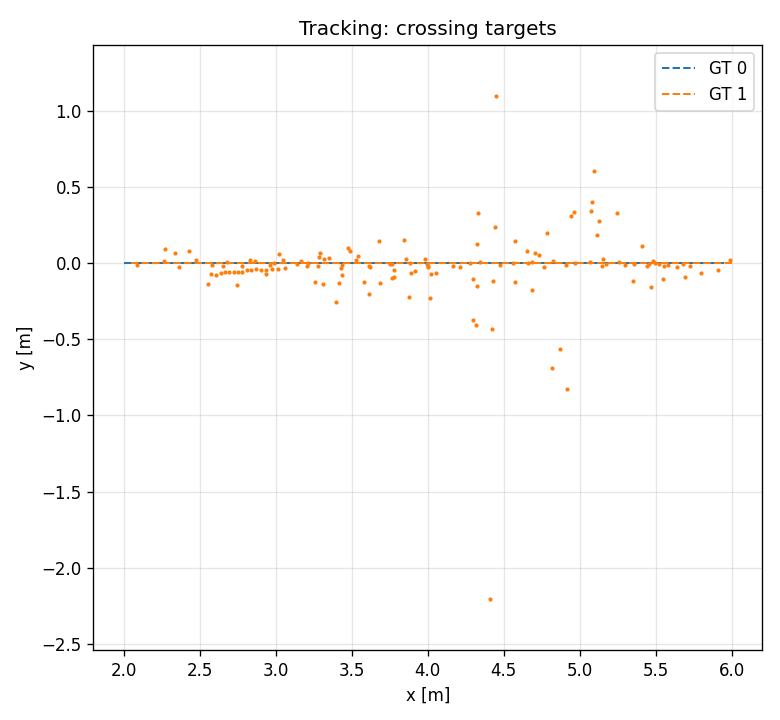
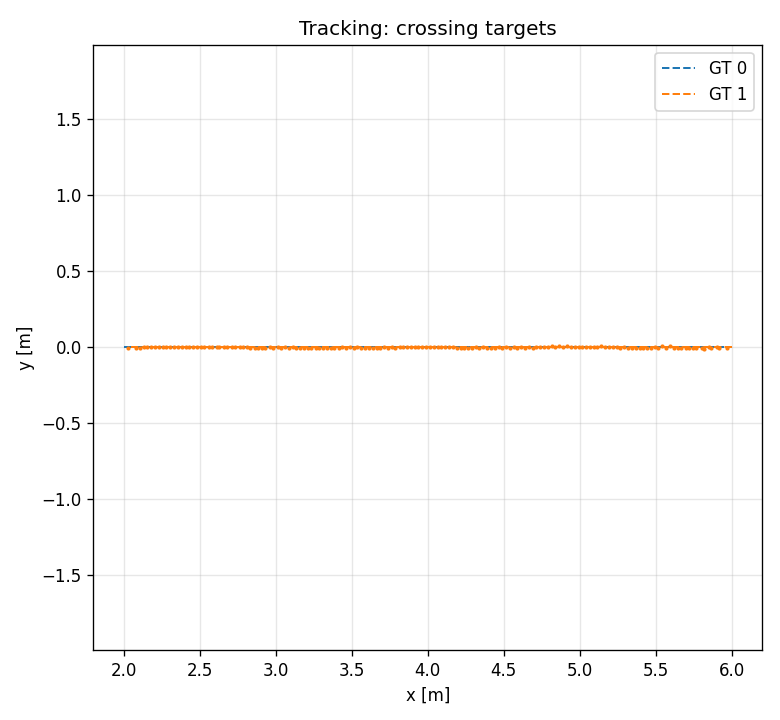
fix: add config 'dt' in CartesianTrackerConfig

diff --git a/processing/tracking_cartesian.py b/processing/tracking_cartesian.py
@@ -27,41 +27,48 @@ def wrap_to_pi(a: float) -> float:
     return np.pi - (np.pi - a) % (2.0 * np.pi)
 
 
-def ctrv_f(state: np.ndarray) -> np.ndarray:
-    """CTRV one-frame state transition (Δt = 1)."""
+def ctrv_f(state: np.ndarray, dt: float = 1.0) -> np.ndarray:
+    """CTRV state transition over a timestep `dt`.
+
+    With `dt = frame_period_s`, the state is in SI units (v in m/s, ω in rad/s),
+    consistent with the m/s Doppler measurement. `dt = 1.0` is the per-step form
+    used by the self-consistent unit tests.
+    """
     x, y, v, psi, w = state
+    wdt = w * dt
     if abs(w) < _EPS_OMEGA:
         # First-order-in-ω straight-line limit (keeps f consistent with ctrv_F's
         # analytic ω-column and avoids the v/ω singularity).
         s, c = np.sin(psi), np.cos(psi)
-        return np.array([x + v * c - 0.5 * v * w * s,
-                         y + v * s + 0.5 * v * w * c,
-                         v, wrap_to_pi(psi + w), w])
+        return np.array([x + v * c * dt - 0.5 * v * w * s * dt * dt,
+                         y + v * s * dt + 0.5 * v * w * c * dt * dt,
+                         v, wrap_to_pi(psi + wdt), w])
     s, c = np.sin(psi), np.cos(psi)
-    sw, cw = np.sin(psi + w), np.cos(psi + w)
+    sw, cw = np.sin(psi + wdt), np.cos(psi + wdt)
     return np.array([x + (v / w) * (sw - s),
                      y + (v / w) * (c - cw),
-                     v, wrap_to_pi(psi + w), w])
+                     v, wrap_to_pi(psi + wdt), w])
 
 
-def ctrv_F(state: np.ndarray) -> np.ndarray:
-    """Jacobian ∂f/∂x (5×5)."""
+def ctrv_F(state: np.ndarray, dt: float = 1.0) -> np.ndarray:
+    """Jacobian ∂f/∂x (5×5) for the `dt`-step CTRV transition."""
     x, y, v, psi, w = state
     s, c = np.sin(psi), np.cos(psi)
     F = np.eye(5)
     if abs(w) < _EPS_OMEGA:
-        F[0, 2], F[0, 3], F[0, 4] = c, -v * s, -0.5 * v * s
-        F[1, 2], F[1, 3], F[1, 4] = s, v * c, 0.5 * v * c
-        F[3, 4] = 1.0
+        F[0, 2], F[0, 3], F[0, 4] = c * dt, -v * s * dt, -0.5 * v * s * dt * dt
+        F[1, 2], F[1, 3], F[1, 4] = s * dt, v * c * dt, 0.5 * v * c * dt * dt
+        F[3, 4] = dt
         return F
-    sw, cw = np.sin(psi + w), np.cos(psi + w)
+    wdt = w * dt
+    sw, cw = np.sin(psi + wdt), np.cos(psi + wdt)
     F[0, 2] = (sw - s) / w
     F[0, 3] = (v / w) * (cw - c)
-    F[0, 4] = v * (cw * w - (sw - s)) / (w * w)
+    F[0, 4] = v * (dt * w * cw - (sw - s)) / (w * w)
     F[1, 2] = (c - cw) / w
     F[1, 3] = (v / w) * (sw - s)
-    F[1, 4] = v * (sw * w - (c - cw)) / (w * w)
-    F[3, 4] = 1.0
+    F[1, 4] = v * (dt * w * sw - (c - cw)) / (w * w)
+    F[3, 4] = dt
     return F
 
 
@@ -91,22 +98,23 @@ def cartesian_H(state: np.ndarray) -> np.ndarray:
     return H
 
 
-def ctrv_Q(state: np.ndarray, sigma_a: float, sigma_yaw: float) -> np.ndarray:
+def ctrv_Q(state: np.ndarray, sigma_a: float, sigma_yaw: float,
+           dt: float = 1.0) -> np.ndarray:
     """CTRV process noise from longitudinal-accel std σ_a and yaw-accel std
-    σ_yaw, mapped through the standard noise-input matrix G (Δt = 1)."""
+    σ_yaw, mapped through the standard noise-input matrix G over a step `dt`."""
     psi = state[3]
-    G = np.array([[0.5 * np.cos(psi), 0.0],
-                  [0.5 * np.sin(psi), 0.0],
-                  [1.0,               0.0],
-                  [0.0,               0.5],
-                  [0.0,               1.0]])
+    G = np.array([[0.5 * np.cos(psi) * dt * dt, 0.0],
+                  [0.5 * np.sin(psi) * dt * dt, 0.0],
+                  [dt,                          0.0],
+                  [0.0,                         0.5 * dt * dt],
+                  [0.0,                         dt]])
     D = np.diag([sigma_a * sigma_a, sigma_yaw * sigma_yaw])
     return G @ D @ G.T
 
 
-def ekf_predict(state, cov, Q):
-    F = ctrv_F(state)
-    return ctrv_f(state), F @ cov @ F.T + Q
+def ekf_predict(state, cov, Q, dt: float = 1.0):
+    F = ctrv_F(state, dt)
+    return ctrv_f(state, dt), F @ cov @ F.T + Q
 
 
 def _innovation(state, z):
@@ -189,8 +197,9 @@ class CartesianTracker:
 
     def step(self, objects: list) -> list:
         for t in self.tracks:
-            Q = ctrv_Q(t.state, self.cfg.sigma_a, self.cfg.sigma_yaw_accel)
-            t.state, t.cov = ekf_predict(t.state, t.cov, Q)
+            Q = ctrv_Q(t.state, self.cfg.sigma_a, self.cfg.sigma_yaw_accel,
+                       self.cfg.dt)
+            t.state, t.cov = ekf_predict(t.state, t.cov, Q, self.cfg.dt)
             t.age += 1
             t.assoc_det_idx = None
 

diff --git a/evaluation/mimo_tracking_eval.py b/evaluation/mimo_tracking_eval.py
@@ -12,11 +12,20 @@ import numpy as np
 ROOT = Path(__file__).resolve().parents[1]
 sys.path.insert(0, str(ROOT))
 
+from processing.config import CartesianTrackerConfig
 from simulator.beat_signal_generator import FMCWBeatSignalGenerator
 from evaluation.mimo_pipeline import (
     run_pipeline_mimo, build_gt_xy, associate_xy, track_rmse_xy)
 
 OUT = ROOT / "report" / "mimo_evaluation"
+
+
+def _tracker_cfg(frame_period):
+    """Tracker config with predict dt = frame period (so the state is SI: v in
+    m/s, ω in rad/s, consistent with the m/s Doppler) and process noise sized for
+    the frame rate (the dataclass defaults are the per-step dt=1 convention)."""
+    return CartesianTrackerConfig(dt=frame_period, sigma_a=5.0,
+                                  sigma_yaw_accel=2.0)
 
 
 def _assoc_history(gt_traj, history, max_dist_m=2.5):
@@ -28,7 +37,8 @@ def run_turn_eval(cfg, targets, n_frames=30):
     """Track the ct_xy turn target; return RMSE + final ω estimate (rad/frame)."""
     gen = FMCWBeatSignalGenerator(cfg)
     gt = build_gt_xy(targets, gen, n_frames)
-    history = run_pipeline_mimo(cfg, targets, n_frames)
+    history = run_pipeline_mimo(cfg, targets, n_frames,
+                                tracker_config=_tracker_cfg(cfg.frame_period_s))
     assoc = _assoc_history(gt, history)
     rmse = track_rmse_xy(gt, history, assoc)
     # distinct track IDs ever associated with GT 0 — track-ID stability.
@@ -60,21 +70,54 @@ def _bev(gt, history, assoc, out, title):
     fig.tight_layout(); fig.savefig(out, dpi=120); print("wrote", out)
 
 
+def _state_vs_frame(history, assoc, target, frame_period, out, title):
+    """Estimate vs ground truth of the non-position states (v, ψ, ω) over frames,
+    for the GT-owning track. GT v/ψ come from the ct_xy motion model; GT ω is the
+    scenario turn rate (rad/frame)."""
+    from simulator.motion_models import _ct_xy_state
+    w_true = target.motion_params.get("turn_rate", 0.0)   # rad/s (state ω is SI)
+    frames, v_e, psi_e, w_e, v_g, psi_g = [], [], [], [], [], []
+    for (fi, snaps), (_, m) in zip(history, assoc):
+        snap = next((s for s in snaps if s.id == m.get(0)), None)
+        if snap is None:
+            continue
+        _, _, vx, vy = _ct_xy_state(target, fi * frame_period)
+        frames.append(fi)
+        v_e.append(snap.state[2]); psi_e.append(np.degrees(snap.state[3]))
+        w_e.append(snap.state[4])
+        v_g.append(np.hypot(vx, vy)); psi_g.append(np.degrees(np.arctan2(vy, vx)))
+    fig, axs = plt.subplots(3, 1, figsize=(7, 7), sharex=True)
+    axs[0].plot(frames, v_g, "k--", label="GT"); axs[0].plot(frames, v_e, "C1.-", label="est")
+    axs[0].set(ylabel="speed v [m/s]"); axs[0].grid(alpha=0.3); axs[0].legend()
+    axs[1].plot(frames, psi_g, "k--"); axs[1].plot(frames, psi_e, "C1.-")
+    axs[1].set(ylabel="heading ψ [deg]"); axs[1].grid(alpha=0.3)
+    axs[2].axhline(w_true, color="k", ls="--", label="GT")
+    axs[2].plot(frames, w_e, "C1.-", label="est")
+    axs[2].set(xlabel="frame", ylabel="turn rate ω [rad/s]")
+    axs[2].grid(alpha=0.3); axs[2].legend()
+    fig.suptitle(title)
+    fig.tight_layout(); fig.savefig(out, dpi=120); print("wrote", out)
+
+
 def main():
     from simulator.beat_signal_generator import load_scenario
     # turn
     cfg, tg = load_scenario(str(ROOT / "scenarios/scenario_mimo_turn.json"))
-    res = run_turn_eval(cfg, tg, n_frames=35)
+    res = run_turn_eval(cfg, tg, n_frames=60)
     print(f"turn: rmse={res['rmse_m']:.2f} m  omega_final={res['omega_frame_final']:.4f}")
     _bev(res["gt"], res["history"], res["assoc"],
          OUT / "mimo_tracking_turn.png",
          f"Tracking a turn (RMSE {res['rmse_m']:.2f} m)")
-    
+    _state_vs_frame(res["history"], res["assoc"], tg[0], cfg.frame_period_s,
+                    OUT / "mimo_tracking_turn_states.png",
+                    "Turn: state estimates (v, ψ, ω) vs ground truth")
+
     # multi-target crossing
     cfg2, tg2 = load_scenario(str(ROOT / "scenarios/scenario_mimo_crossing.json"))
     gen2 = FMCWBeatSignalGenerator(cfg2)
     gt2 = build_gt_xy(tg2, gen2, 80)
-    hist2 = run_pipeline_mimo(cfg2, tg2, 80)
+    hist2 = run_pipeline_mimo(cfg2, tg2, 80,
+                              tracker_config=_tracker_cfg(cfg2.frame_period_s))
     fig, ax = plt.subplots(figsize=(6.5, 6))
     for gid in range(len(tg2)):
         ax.plot([r[gid][1] for _, r in gt2], [r[gid][2] for _, r in gt2],

diff --git a/processing/config.py b/processing/config.py
@@ -232,6 +232,9 @@ class CartesianTrackerConfig:
     measurement [r,θ,ṙ] (Doppler always in). Δt folded as 1 frame, as in the
     radial TrackerConfig — ω is rad/frame, accel noises per-frame."""
     method: str = "gnn"                 # "nn" | "gnn"
+    dt: float = 1.0                     # predict timestep (s); set to frame_period
+    #                                     end-to-end so v is m/s (consistent with the
+    #                                     m/s Doppler measurement). 1.0 = per-step form.
     gate_threshold: float = 11.34       # χ²₃ @ 99% (3-DOF polar+Doppler)
     sigma_a: float = 1.0                # longitudinal accel process std, m/s²
     sigma_yaw_accel: float = 0.3        # yaw-accel process std, rad/s² (>=0)
@@ -253,7 +256,7 @@ class CartesianTrackerConfig:
             raise ValueError(
                 f"CartesianTrackerConfig.method must be 'nn' or 'gnn', "
                 f"got {self.method!r}")
-        for name in ("gate_threshold", "sigma_a", "sigma_r", "sigma_az",
+        for name in ("dt", "gate_threshold", "sigma_a", "sigma_r", "sigma_az",
                      "sigma_rdot", "init_pos_var", "init_v_var", "init_psi_var"):
             if getattr(self, name) <= 0:
                 raise ValueError(f"CartesianTrackerConfig.{name} must be > 0")

diff --git a/evaluation/mimo_pipeline.py b/evaluation/mimo_pipeline.py
@@ -41,7 +41,10 @@ def run_pipeline_mimo(radar_cfg, targets, n_frames, *, doa_method="music",
         radar_cfg = dataclasses.replace(radar_cfg, element_noise_seed=seed)
     gen = FMCWBeatSignalGenerator(radar_cfg)
     metadata = gen.metadata()
-    tracker = CartesianTracker(tracker_config or CartesianTrackerConfig())
+    # Predict timestep = frame period, so the tracker's state velocity is m/s,
+    # consistent with the m/s Doppler measurement.
+    tracker = CartesianTracker(
+        tracker_config or CartesianTrackerConfig(dt=radar_cfg.frame_period_s))
     history = []
     for fi in range(n_frames):
         frame = gen.generate_frame_mimo(targets, frame_index=fi)

diff --git a/report/mimo_evaluation/mimo_evaluation_report.md b/report/mimo_evaluation/mimo_evaluation_report.md
@@ -13,6 +13,10 @@ Extend the SISO to MIMO: 3 TX × 4 RX = 12-element λ/2 virtual ULA. The pipelin
   exponential to Gamma(V). This is handled by recalibrating the CFAR threshold α
   for the integration count.
   So we fix one CFAR default (CA, real-time) and *verify* behaviour rather than compare.
+- **TDM Doppler compensation:** sequential TX firing imprints a Doppler-dependent
+  phase across the virtual array (it would bias the angle estimate); it is removed
+  using the cell's measured Doppler bin `d` (after CFAR, before DoA):
+  `exp(-j2π(d − n_chirps/2)·i_tx/(n_chirps·n_tx))` per element, `i_tx ∈ {0, 1, …, n_tx−1}`.
 - **DoA estimation:** Bartlett / Capon / MUSIC / ESPRIT
 - **Clustering:** `peak`/`cc` are grid/image operations that do not
   apply to a scattered Cartesian point cloud; only DBSCAN remains.
@@ -146,7 +150,23 @@ objects, with a wide, forgiving sweet spot. (Caveat, from the M3 spec §7a: raw 
 velocity over-splits a single *extended* object whose Doppler varies across its angular
 extent; moot for the point targets here.)
 
-## 6. Tracking — CTRV-EKF end-to-end
+## 6. Tracking — CTRV-EKF
+
+Durin this section, the fixed front-end lens are:
+**CA-CFAR** detection and **MUSIC** DoA, feeding the CTRV-EKF (GNN association, χ²₃ gate).
+
+Note the 2-D tracker has a config `dt` (predict timestep (s)) which the previous 1-D Tracker doesn't have:
+  - 1-D Tracker works entirely in bins / bins-per-frame. Its state is [range_bin, range_rate], and — crucially — it only puts position
+  (range_bin) in the Kalman update; Doppler is smoothed separately (last_doppler_bin), never fed into the KF as a physical velocity. So
+  everything is per-frame/bin, "one frame = one step" (Δt=1) is baked in, and it never needs a real-world time value.
+  - Cartesian CTRV-EKF works in SI units (v in m/s, ω in rad/s) and feeds the m/s Doppler ṙ into the measurement update. For the
+  predict's "new position = position + velocity × time" to be consistent with an m/s velocity, the timestep must be in real seconds —
+  i.e. `dt` = frame_period. That's the field. It's exactly the bug we just fixed: without it the predict treated velocity as per-frame
+  while the measurement was per-second.
+
+  So `dt` is the price of working in physical units + using the real Doppler — which is more intuitive than the 1-D tracker's bins, but
+  requires the tracker to know the real frame period.
+
 
 ### 6.1 Maneuvering (turn) target
 
@@ -154,20 +174,37 @@ extent; moot for the point targets here.)
 
 CMD: `python -m evaluation.mimo_tracking_eval`
 
-`scenario_mimo_turn` — a `ct_xy` target turning at 0.6 rad/s — tracked end-to-end
-through the full chain. **Position RMSE = 0.21 m** with a **single stable track ID**
-through the maneuver. The track follows the curved trajectory closely after a brief
-spawn transient.
+`scenario_mimo_turn` — a `ct_xy` target turning at 0.6 rad/s, tracked over 60 frames
+end-to-end through the full chain. **Position RMSE = 0.24 m** with a **single stable
+track ID** through the maneuver; the track follows the curved trajectory closely.
 
-**Honest finding — turn rate ω is only weakly observable.** Although position tracking
-is excellent, the estimated turn rate does **not** converge to the true 0.03 rad/frame
-end-to-end: it *wanders* with the DoA noise (≈0.09 at 35 frames, 0.02 at 50, −0.19 at
-70). ω is not directly measured (its measurement-Jacobian column is zero) — it is
-inferred only from how the heading evolves, and a single target's noisy (r, θ, ṙ)
-stream constrains it weakly. The M4 unit test converges ω to within 0.025 because it
-feeds *noiseless* synthetic measurements; the gap here is precisely the azimuth-noise
-sensitivity. Pinning ω down would need lower azimuth noise, a longer stable-geometry
-arc, or multiple scatterers (extended-object tracking, a future direction).
+The full state is recovered, not just position:
+
+![turn state estimates](mimo_tracking_turn_states.png)
+
+After a **convergence transient** (~25–30 frames) the estimates **settle** onto ground
+truth and hold: speed **v → ~2.5 m/s** (after an overshoot to ~3.0), heading **ψ**
+tracks the rotating GT line (including through the ±180° wrap), and turn rate
+**ω → ~0.6 rad/s** (GT 0.6). The transient comes from the spawn seed (`ψ = bearing`,
+`v = radial velocity`, `ω = 0`) — a single Doppler can't separate speed from heading at
+birth, so the filter starts with a cross-range-blind guess and converges as the geometry
+evolves.
+
+**Two prerequisites for this to work (both learned the hard way):**
+1. **Consistent units.** The CTRV predict timestep must be the **frame period** so the
+   state velocity is in m/s, matching the m/s Doppler measurement. With the earlier
+   per-frame (`Δt = 1`) predict, the position dynamics and the Doppler measurement
+   demanded velocities a factor of `1/frame_period` apart — an irreconcilable conflict
+   that left v, ψ, ω as garbage (position still tracked, because `(r, θ)` are measured
+   directly each frame and masked it).
+2. **Process noise sized for the frame rate.** With `dt = frame_period`, the default
+   per-step process noise is far too stiff; `ω` then crawls and under-shoots. Sizing
+   `σ_a`, `σ_yaw` for the frame rate lets it converge.
+
+*Residual caveat:* ω is still the **weakest-observed** state — it isn't measured
+directly (its measurement-Jacobian column is zero), only inferred from how the heading
+evolves, so it converges last and needs the maneuver to excite it. A non-manoeuvring or
+very short track would not pin it down.
 
 *Methodology note:* the scenario uses the same CTRV kinematics as the tracker's motion
 model, so this validates "tracks a maneuver under sensor noise," **not** motion-model
@@ -191,7 +228,7 @@ through the crossing.
 | DoA accuracy | all comparable for one source; ESPRIT reaches ~0.04° at 30 dB vs ~0.4° grid floor |
 | DoA resolution | ESPRIT 3° < MUSIC 4° < Capon 5° < Bartlett 10° |
 | Clustering | velocity feature splits co-located targets; correct count over eps 0.6–1.6 m, vel_scale 1–2 |
-| Tracking | turn tracked at 0.21 m RMSE with stable ID; ω weakly observable (does not converge end-to-end) |
+| Tracking | turn tracked at 0.24 m RMSE, stable ID; full state (v, ψ, ω→0.61 vs 0.6) converges and settles after a transient |
 
 ## 8. Artifact index
 
@@ -201,7 +238,7 @@ through the crossing.
 | `mimo_detection.png` | `python -m evaluation.mimo_detection_eval` |
 | `mimo_doa_accuracy.png`, `mimo_doa_resolution.png` | `python -m evaluation.mimo_doa_eval` |
 | `mimo_clustering.png` | `python -m evaluation.mimo_clustering_eval` |
-| `mimo_tracking_turn.png`, `mimo_tracking_crossing.png` | `python -m evaluation.mimo_tracking_eval` |
+| `mimo_tracking_turn.png`, `mimo_tracking_turn_states.png`, `mimo_tracking_crossing.png` | `python -m evaluation.mimo_tracking_eval` |
 | offline runner + Cartesian scorers | `evaluation/mimo_pipeline.py` |
 | scenarios | `scenarios/scenario_mimo.json`, `scenario_mimo_2targets.json`, `scenario_mimo_crossing.json`, `scenario_mimo_turn.json` |
 | tests | `tests/test_mimo_pipeline.py`, `tests/test_ct_xy.py` |
